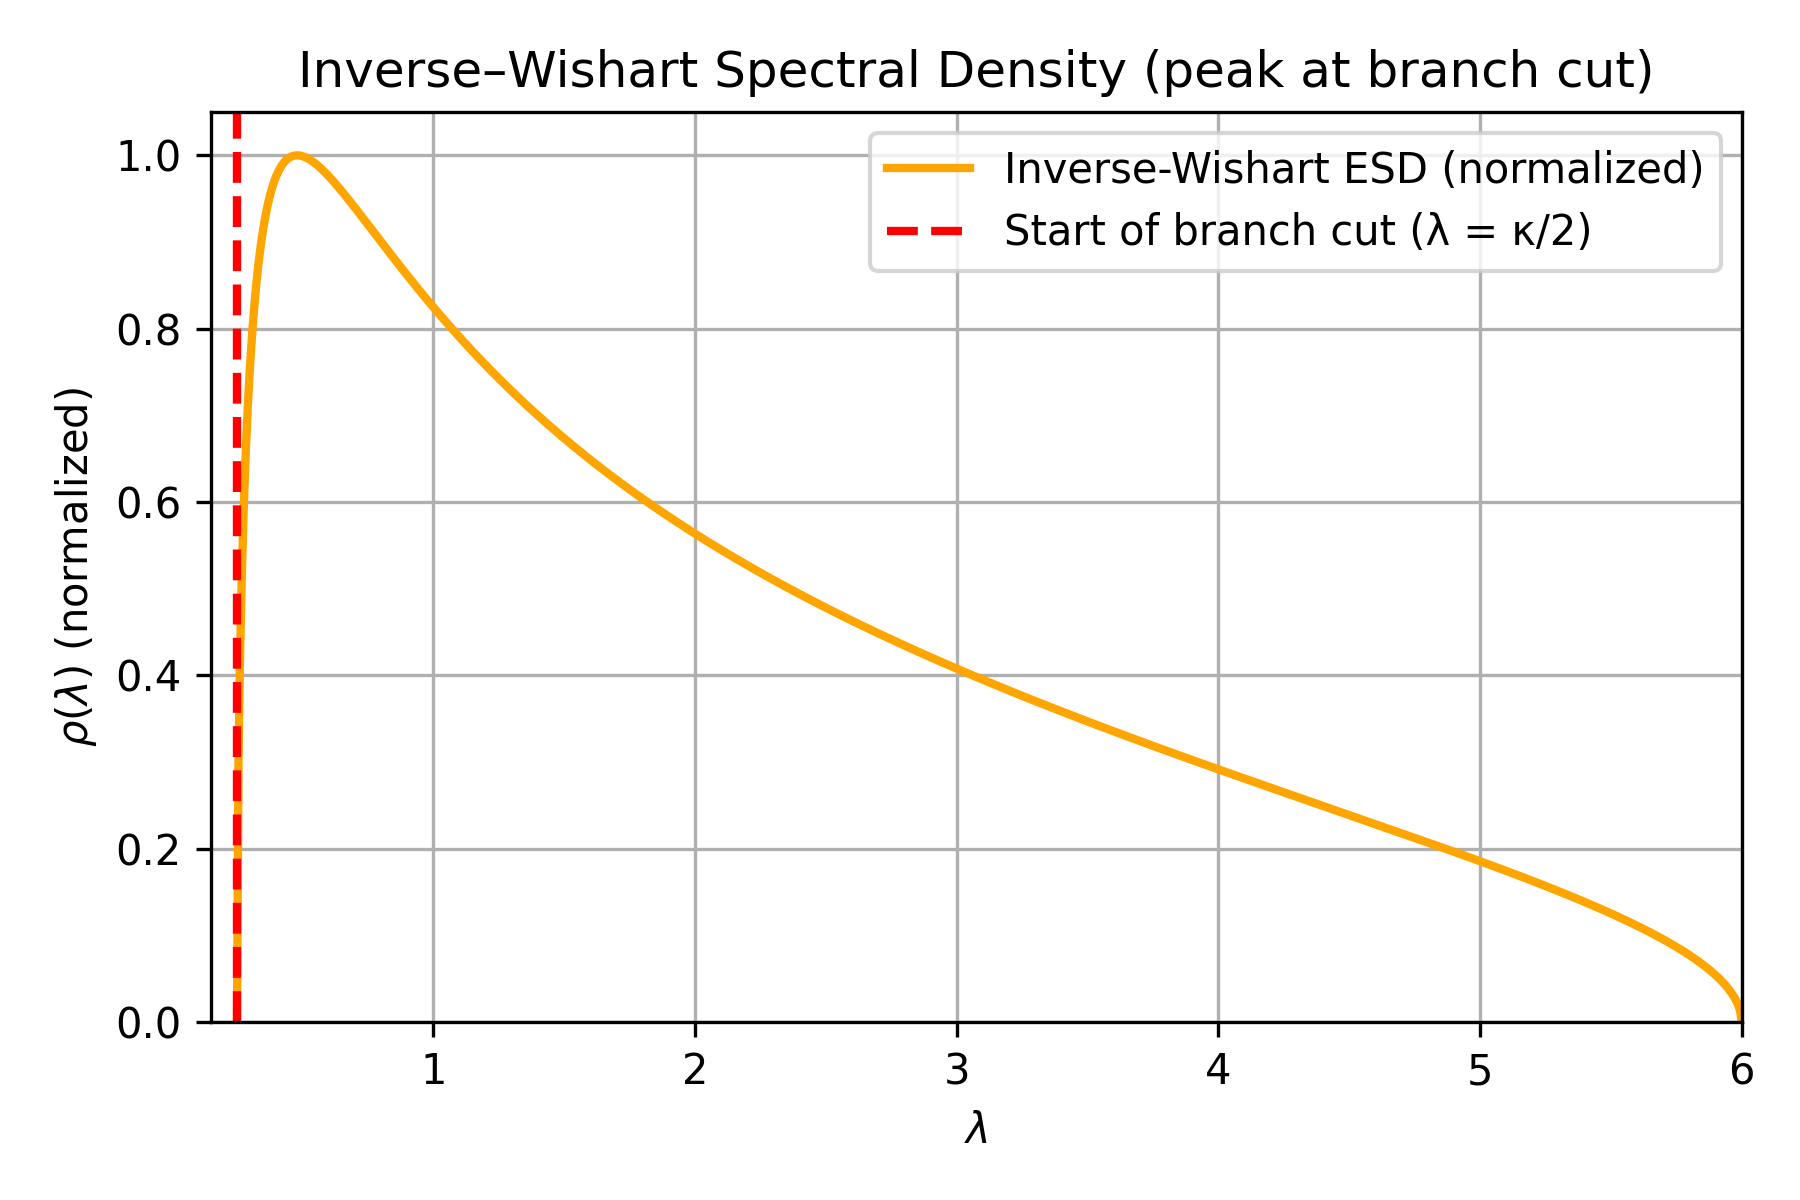
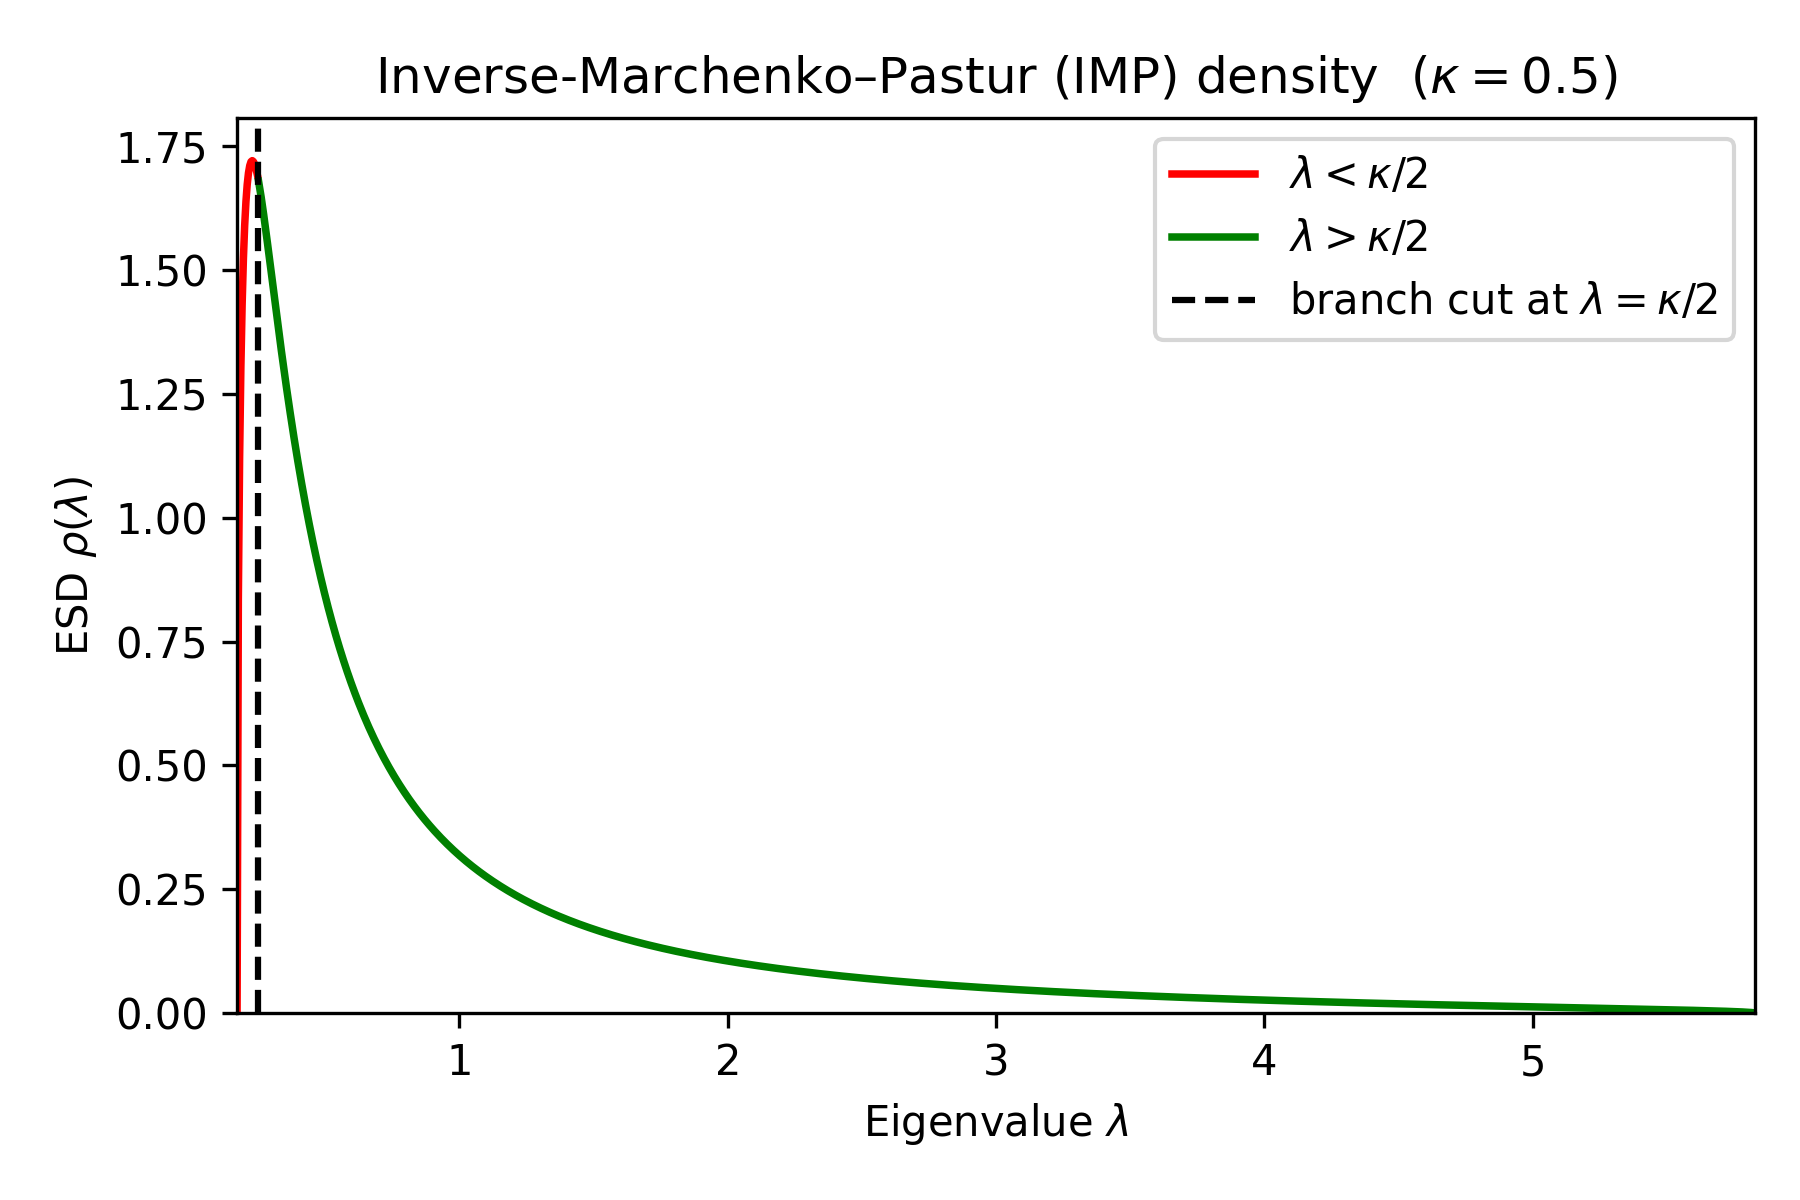
updated IW -> IMP

diff --git a/sections/550_matgen_r_transforms.tex b/sections/550_matgen_r_transforms.tex
@@ -1,7 +1,7 @@
 \subsection{Modeling the R-Transform}
 \label{sxn:r_transforms}
 
-In this section, we explain how to select the \RTransform $R(z)$ and evaluate the~\GEN~$\GN$ under different modeling assumptions.
+
 To apply \SETOL, the model satisfy the \TRACELOG condition--which occurs during the case of  \IdealLearning.
 For most cases of NN models, the ESD are HT; and this, in practice, one usually would select $R(x)$ that reflects this.
 But to be more general, we formally extend the theory to allow the practioners to
@@ -197,49 +197,47 @@ as smaller $\alpha$ suggests higher quality layers and therefore a higher overal
 
 \subsubsection{Inverse Marchenko-Pastur Model of \IdealLearning}
 For a more realistic model of a layer ESD, 
-here, we consider the \InverseMP (IMP) model.
+here, we consider the \InverseMP (IMP) model.\cite{BunThesis}
 The IMP model treats the ESD of $\mathbf{X}^{-1}$ when the ESD of $\mathbf{X}$ itself is MP.
-As a parametiric model, it can be quite effective at treating VHT and HT (or \FatTailed) ESDs when the far tail decays very rapidly, like a TPL, and/or for $\alpha\le 4$.
+As a parametiric model, it can be quite effective at treating VHT and HT (or \FatTailed) ESDs,
+$\alpha\le 4$, but works best whenb $\alpha=2.0$.
 To do this, one simply considers the parameters $\kappa$ as an adjustable paremeter.
-\nred{I need to think this section through a bit more.  I think we may need more than 1 adjustable parameter, and the branch cut may or may not matter depending on those choices}
 %
 It is an excellent model for the ESD when $\alpha=2.0$ (and $Q=2$).
 Using this model, we can derive an expression for the \HTSR \ALPHAHAT \LayerQuality metric,
 $\ALPHAHATEQN :=\ALPHAHATLONG)$ as a leading order term in the final expression for $\log_{10}\QT$.
 
-This model 
-
 \begin{figure}[h]
     \centering
-    \subfigure[IMP Distribution, $\kappa=0.25$]{ 
-      \includegraphics[width=7cm]{./img/IWplotQ1.5.png}
+    \subfigure[IMP Distribution, $\kappa=0.5$]{ 
+      \includegraphics[width=7.5cm]{./img/IMPplotKappa0.5.png}
       \label{fig:IMPplotQ15}                               
     }                               
-      \subfigure[IMP Distribution, $\kappa=1.25$]{ 
-      \includegraphics[width=7cm]{./img/IWplotQ3.5.png}
+      \subfigure[IMP Distribution, $\kappa=1.0$]{ 
+      \includegraphics[width=7.5cm]{./img/IMPplotKappa1.25.png}
       \label{fig:IMPplotQ35}                                
       }
-      \caption{Example Inverse Marchenko-Pastur (IMP) distributions for $\kappa=0.25$ and $\kappa=1.25$,  along with Power Law (PL) fits of the generated distribution. Plots on Log-Log scale.\red{THESE NEED TO BE REDONE}}
+      \caption{Example Inverse Marchenko-Pastur (IMP) distributions for $\kappa=0.5$ and $\kappa=1.0$,  along with Power Law (PL) fits of the generated distribution. Plots on Log-Log scale.}
   \label{fig:IMPplots}                                                                                                      
 \end{figure}   
 
 In Figure~\ref{fig:IMPplots}, we fit some \Typical layer ESDs to an IMP distribution.
-When $\kappa=0.25$, the fitted $\alpha=1.91$, and the fit is a reasonably accurate model of the underlying Power Law
+When $\kappa=0.5$, $Q=2.0$ and the fitted $\alpha=1.08$, and the fit is a reasonably accurate model of the underlying Power Law
 distribution and the ~\WW PL fit.
-For  $\kappa=1.25$, the fitted $\alpha=2.92$ is larger, but the fit is not as good as a
+For  $\kappa=1.0$, $Q=3.0$ and the fitted $\alpha=2.64$ is larger, and the fit is not as good as a
 model. Generally speaking, $\alpha$ scales with $\kappa$, but the  free cumulants scale inversely with $\kappa$.
 So smaller $\alpha$ will give larger free cumulants and therefore a larger $\QT$.
-Importantly, as seen in Figure~\ref{fig:IMPplotQ15}, for $\alpha= 2.0$, the IMP model (with $\kappa=0.25$)
+Importantly, as seen in Figure~\ref{fig:IMPplotQ15}, for $\alpha= 2.0$, the IMP model (with $\kappa=0.5$)
 is an effective, simple model to illustrate the \SETOL case of \IdealLearning.
 
 \begin{figure}[t]
     \centering
     \subfigure[IMP $R(z)$, real $z$.]{
-        \includegraphics[width=7cm]{img/IW_R_transform_sides.png}
+        \includegraphics[width=7.5cm]{img/IW_R_transform_sides.png}
         \label{fig:IMP_R}
     }
     \subfigure[Branch cut at $z=\kappa/2$]{
-        \includegraphics[width=7cm]{img/Branch_Cut_Density_normalized.png}
+        \includegraphics[width=7.5cm]{img/Branch_Cut_Density_normalized.png}
         \label{fig:IMP_branch_cut}
     }
     \caption{(a) The function $R(z)$ of the Inverse MP model, with a singularity at $z = \kappa/2$. (b) The branch cut in the empirical spectral density, corresponding to the tail for $\kappa = 0.5$.}
@@ -261,20 +259,19 @@ which allows us to at least formally defined the integral along the physically m
 \GN[\mathrm{IMP}] := \int_{\LambdaECSmin}^{\lambda} R(z)[\mathrm{IMP}] dz  ,
 \end{equation}
 noting that we expect $\LambdaECSmin\ge\kappa/2$.
-\michael{Why do we have this par, if we are using quality squared. I need to understand.}
-\charles{@michael: whats the issue ?}
+\nred{Actually, I think we only need the real part, I need to redo this part}
 
 It turns out, however, that due to the branch cut in $R(z)[\mathrm{IMP}]$,
 the function $\GN[\mathrm{IMP}]$ is not analytic in the domain we need. 
 To correct for this, we will instead model the \LayerQualitySquared using the modulus of $\GN[\mathrm{IMP}]$,
+\nred{Probably we just want the real part, I think with the Tananka integral the imaginary parts cancel; need to check again}
 \begin{equation}
 \label{eqn:IMP_model_2} 
 |\GN[\mathrm{IMP}]| := \sqrt{\GN[\mathrm{IMP}]^{*}\GN[\mathrm{IMP}]}
 \end{equation}
 where $\GN[\mathrm{IMP}]^{*}$ is the complex conjugate of $\GN[\mathrm{IMP}]$.
 This is somewhat involved, so we present the full calculation in Appendix~\ref{sxn:IMP}
-\michael{MM TO DO: Go through.}
-\michael{Are we going to mention the result here since we will use it?}
+
 
 
 Figure~\ref{fig:InverseMPGx} plots $|\GN[\mathrm{IMP}]|$ on Lin-lin and Log-log plots, on the range $\lambda\in(0.25, 100)$, and fits the it to a PL. 
